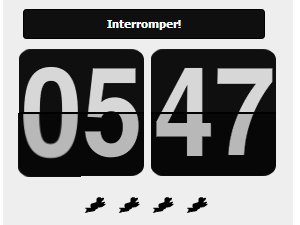
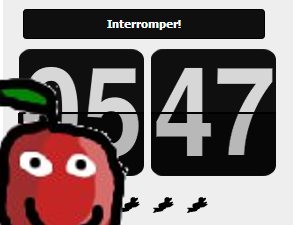
improv

Changed region(s): [[0.0, 0.3422, 0.45, 1.0]]

diff --git a/pomodoros-painel.php b/pomodoros-painel.php
@@ -41,7 +41,7 @@
 	</div><!--fecha pomodoros painel-->
 	<br />
 	<div id="div_status"><script>document.write(txt_mat_introducing)</script></div>
-	<img src="<?php bloginfo('stylesheet_directory'); ?>/mascote_foca.png" />
+	<img src="<?php bloginfo('stylesheet_directory'); ?>/mascote_original.jpg" />
 	<br />
 	<form name="pomopainel">
 		<label><script>document.write(txt_write_task_title)</script></label><br />
